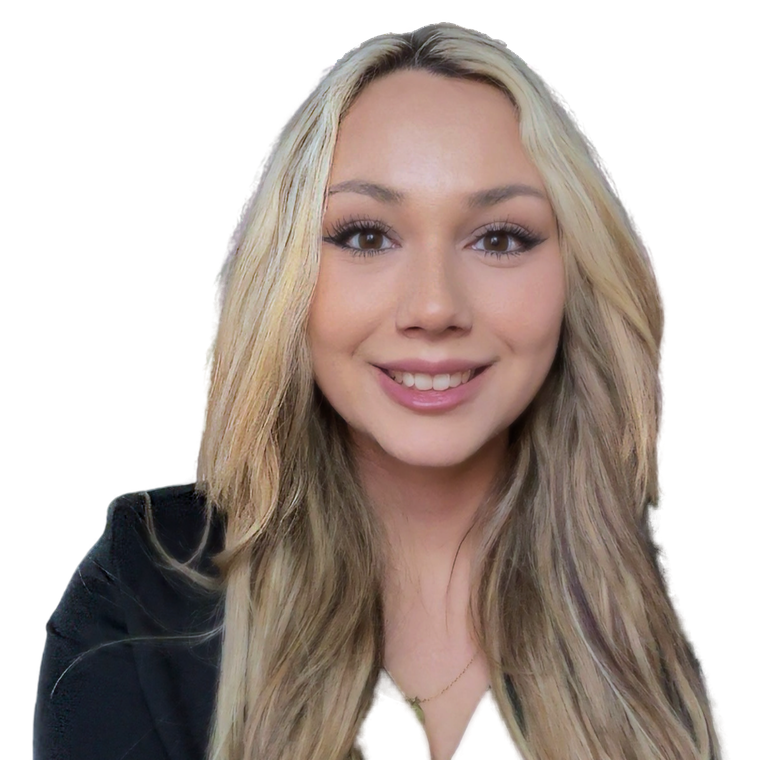
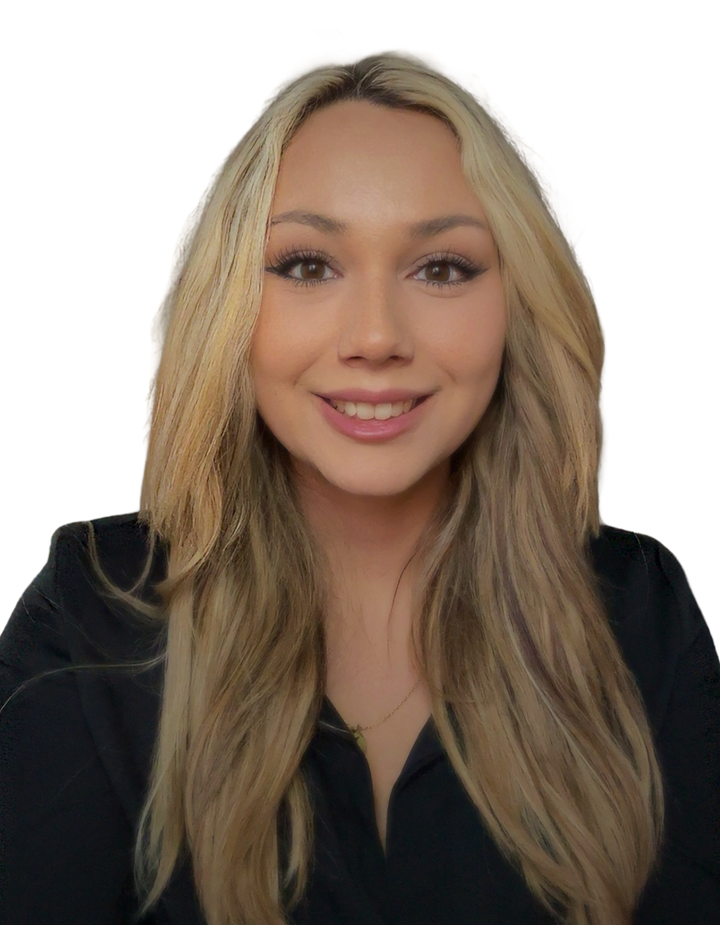
fix: use the exact Figma photo crop for Sandra's portrait
Pulled the source photo and crop straight from Figma (node 56:374)
via the design-context/download-asset tools instead of reusing the
already-square-cropped local file, which sat noticeably looser/higher
than the design (more headroom above the hair, less zoomed on the
face).

Re-cropped the original transparent-background portrait to the exact
window Figma's frame specifies (derived from its object-position CSS:
crop at x:[357,1440] y:[510,1902] of the 1728x2048 source), so a plain
centered `fit="cover"` now reproduces the same framing with no custom
object-position hack needed — the file's aspect ratio already matches
the card's.

Checked the two other asks against the actual Figma file rather than
guessing:
- Gap between photo and text: Figma's Frame 1 uses `gap-[56px]`, which
  is what the page already had — left unchanged (the requested 48px
  doesn't match the file).
- Centering: Figma's row sits at x=277.5 in a 1440-wide frame, i.e.
  center x=720 — exactly what this page already renders and what an
  earlier Playwright measurement already confirmed, so no change
  there either; flagging in case something else is going on that
  isn't reproducible from the file/markup alone.

Verified with Playwright: photo crop + centering screenshotted at
1440px and mobile 390px widths, no console errors. `npm run lint` and
`npm run build` pass; `out/vilka-ar-vi/sandra.html` present in the
export.

diff --git a/app/vilka-ar-vi/sandra/page.tsx b/app/vilka-ar-vi/sandra/page.tsx
@@ -34,6 +34,11 @@ export default function SandraPage() {
             <Box w={{ base: "100%", sm: 358 }} style={{ flexShrink: 0 }}>
               <Card radius="md" p={0} style={{ overflow: "hidden" }}>
                 <CardSection bg="sprout.6">
+                  {/* Photo itself is pre-cropped to the exact framing set on
+                      the Figma frame (Sandra, node 56:374) — the raw source
+                      photo has a lot of empty space above/around her, and
+                      Figma's frame zooms in past what a plain centered
+                      object-fit: cover would show. */}
                   <AspectRatio ratio={358 / 460}>
                     <Image
                       alt={`${sandra.name} portrait`}
